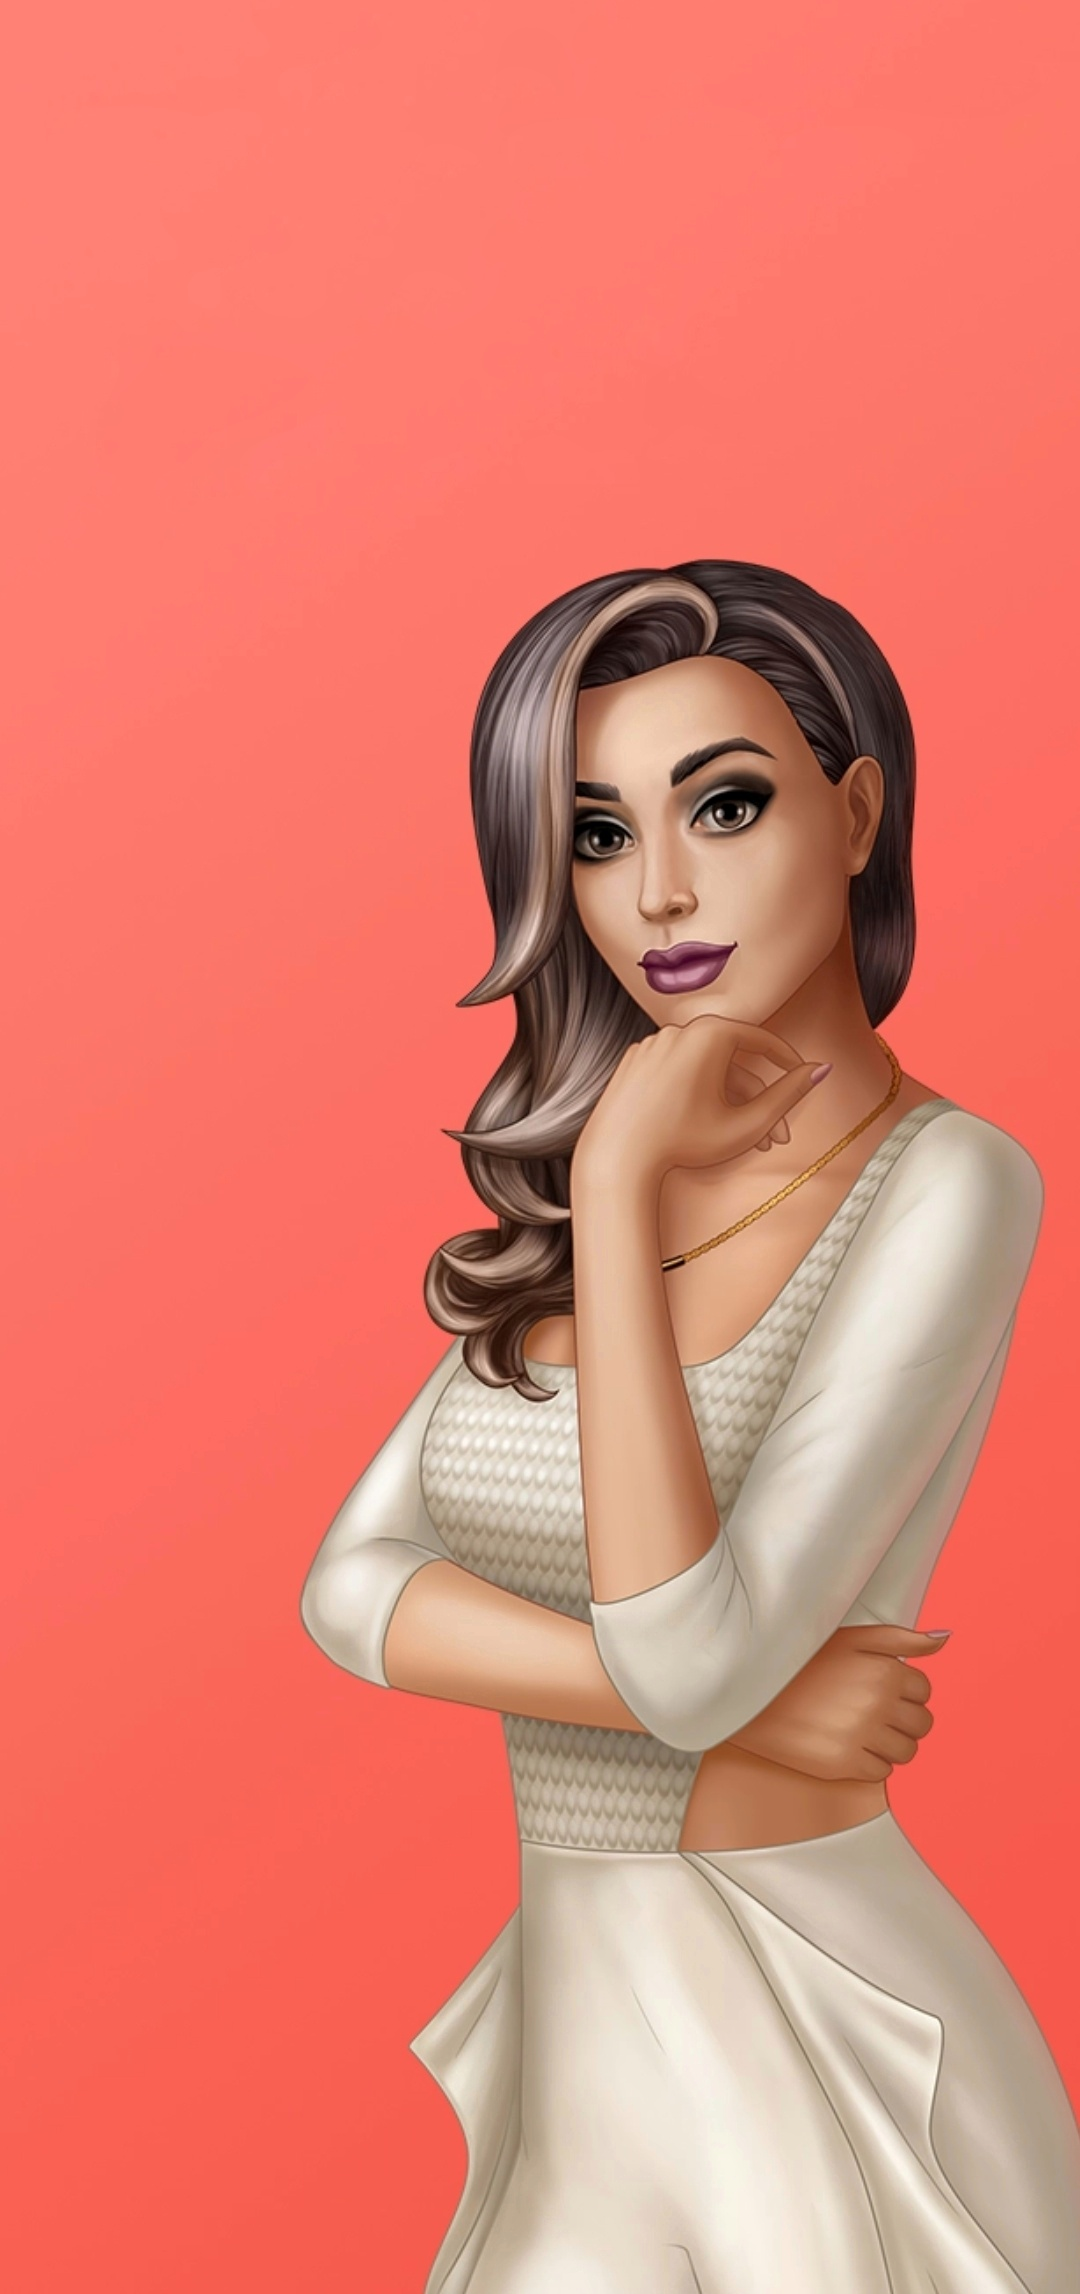
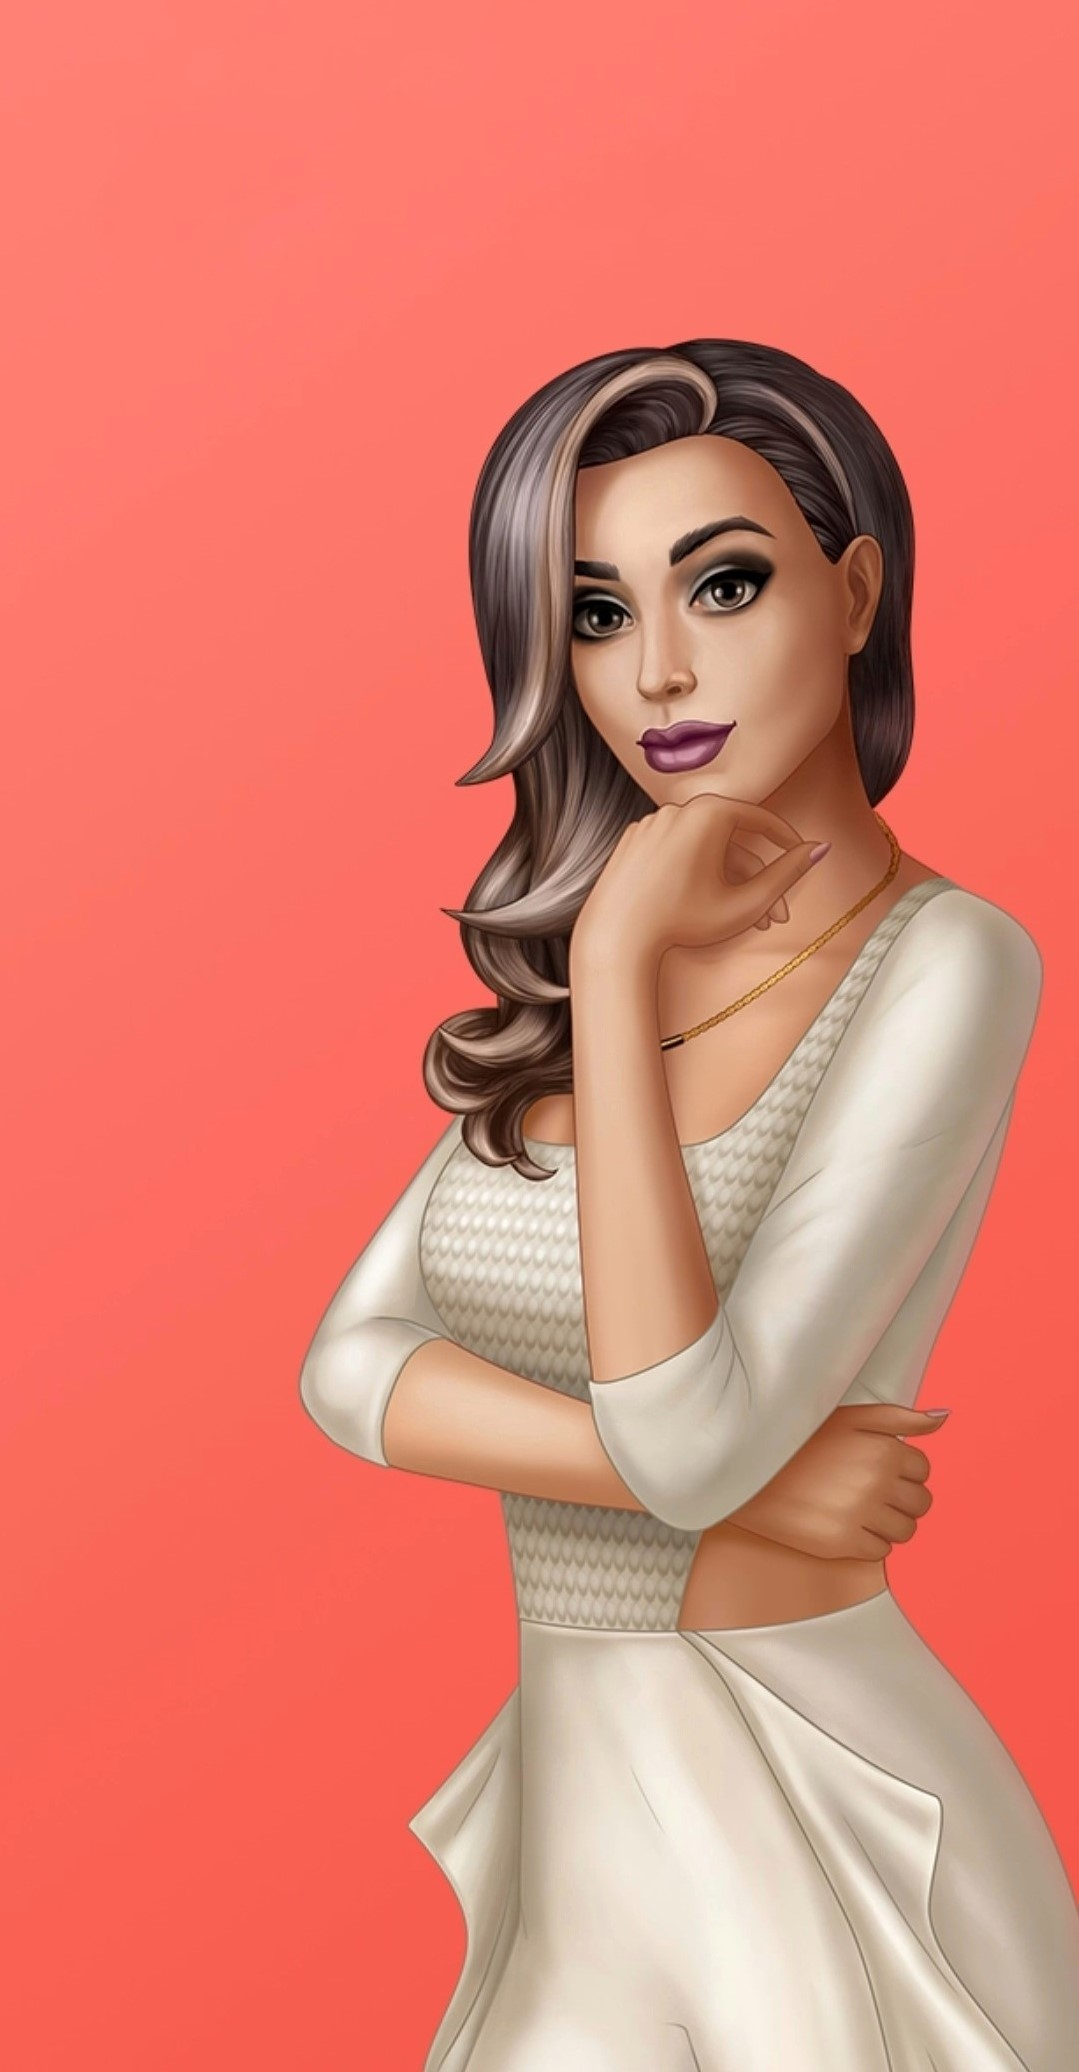
updating layout

diff --git a/index.html b/index.html
@@ -10,9 +10,9 @@
     <title>PocketStyler</title>
   </head>
   <body
-    class="w-screen h-screen"
+    class="w-screen h-screen overflow-hidden "
   >
-    <div class="bg-pic pt-5 box-border bg-no-repeat bg-cover bg-center bg-fixed h-full w-full sm:bg-salmon sm:bg-none">
+    <div class="bg-pic pt-5 box-border bg-no-repeat bg-cover bg-center bg-fixed h-full w-full overflow-hidden overscroll-none sm:bg-salmon sm:bg-none">
       <h2 class="text-white text-5xl font-normal ml-7 -bottom-0 tracking-tight font-sans">POCKET</h2>
       <h1 class="text-white text-6xl font-bold ml-7 font-sans">STYLER</h1>
       <img src="./style.jpeg" alt="syleher-image" class="hidden sm:block sm:absolute sm:inset-y-0 sm:right-0 sm:h-full sm:w-1/2 sm:object-cover" >
@@ -20,52 +20,52 @@
         class="tip absolute bottom-0 left-0 right-0 bg-white mb-12 shadow-lg bg-opacity-30 -skew-y-3 pb-2 sm:grid sm:place-items-center place-content-center font-Rajdhani"
         id="tap"
       >
-          <div class="tip-count bg-magenta mb-2 text-white w-max px-3 py-1 opacity-100 text-xl font-medium -translate-y-7 ml-4 -skew-x-6 sm:place-content-start">
-            <h3 class="tipcount">STYLE TIP #1</h3>
-            <h3 class="tipcount hidden">STYLE TIP #2</h3>
-            <h3 class="tipcount hidden">STYLE TIP #3</h3>
-            <h3 class="tipcount hidden">STYLE TIP #4</h3>
-            <h3 class="tipcount hidden">STYLE TIP #5</h3>
-            <h3 class="tipcount hidden">STYLE TIP #6</h3>
-            <h3 class="tipcount hidden">STYLE TIP #7</h3>
-            <h3 class="tipcount hidden">STYLE TIP #8</h3>
-            <h3 class="tipcount hidden">STYLE TIP #9</h3>
-            <h3 class="tipcount hidden">STYLE TIP #10</h3>
+          <div class="tip-count bg-magenta mb-2 text-white w-max px-3 py-1 opacity-100 text-xl font-medium -translate-y-6 ml-4 -skew-x-6 sm:place-content-start">
+            <h3 class="tipcount skew-x-6">STYLE TIP #1</h3>
+            <h3 class="tipcount skew-x-6 hidden">STYLE TIP #2</h3>
+            <h3 class="tipcount skew-x-6 hidden">STYLE TIP #3</h3>
+            <h3 class="tipcount skew-x-6 hidden">STYLE TIP #4</h3>
+            <h3 class="tipcount skew-x-6 hidden">STYLE TIP #5</h3>
+            <h3 class="tipcount skew-x-6 hidden">STYLE TIP #6</h3>
+            <h3 class="tipcount skew-x-6 hidden">STYLE TIP #7</h3>
+            <h3 class="tipcount skew-x-6 hidden">STYLE TIP #8</h3>
+            <h3 class="tipcount skew-x-6 hidden">STYLE TIP #9</h3>
+            <h3 class="tipcount skew-x-6 hidden">STYLE TIP #10</h3>
           </div>
 
-          <div class="style-tip bg-white bg-opacity-40 shadow-md -mt-10 text-center w-full text-black font-extrabold text-2xl px-4 pt-3">
-            <p class="div-toggle">
+          <div class="style-tip bg-white bg-opacity-40 shadow-md -mt-8 text-center w-full text-black font-extrabold text-2xl px-4 pt-4 h-28 grid place-content-center place-items-center">
+            <p class="div-toggle skew-y-3">
               Being fashionable means being brave enough to wear your dreams
             </p>
-            <p class="hidden div-toggle">
+            <p class="hidden div-toggle skew-y-3">
               Style is not something you are born with, it's something you
               cultivate
             </p>
-            <p class="hidden div-toggle">
+            <p class="hidden div-toggle skew-y-3">
               To be fashionable is now
             </p>
-            <p class="hidden div-toggle">
+            <p class="hidden div-toggle skew-y-3">
               There is no better sound in the morning than the sound of high
               heels.
             </p>
-            <p class="hidden div-toggle">
+            <p class="hidden div-toggle skew-y-3">
               Don't look for inspiration, just cultivate it
             </p>
-            <p class="hidden div-toggle">
+            <p class="hidden div-toggle skew-y-3">
               Learning to be stylish is like learning to walk, except the ground
               is colors and fabrics
             </p>
-            <p class="hidden div-toggle">
+            <p class="hidden div-toggle skew-y-3">
               Find your style and never let it go, unless there is a sale
             </p>
-            <p class="hidden div-toggle">
+            <p class="hidden div-toggle skew-y-3">
               Don't waste other people's glances, wear red
             </p>
-            <p class="hidden div-toggle">
+            <p class="hidden div-toggle skew-y-3">
               A first impression can last a moment or an hour, so dress
               accordingly
             </p>
-            <p class="hidden div-toggle">
+            <p class="hidden div-toggle skew-y-3">
               The power of fashion is to transform a regular day into a special
               evening
             </p>

diff --git a/dist/output.css b/dist/output.css
@@ -568,12 +568,24 @@ video {
   margin-top: 0.75rem;
 }
 
+.-mt-8{
+  margin-top: -2rem;
+}
+
 .box-border{
   box-sizing: border-box;
 }
 
 .block{
   display: block;
+}
+
+.flex{
+  display: flex;
+}
+
+.grid{
+  display: grid;
 }
 
 .hidden{
@@ -586,6 +598,18 @@ video {
 
 .h-screen{
   height: 100vh;
+}
+
+.h-12{
+  height: 3rem;
+}
+
+.h-32{
+  height: 8rem;
+}
+
+.h-28{
+  height: 7rem;
 }
 
 .w-full{
@@ -606,6 +630,11 @@ video {
   transform: translate(var(--tw-translate-x), var(--tw-translate-y)) rotate(var(--tw-rotate)) skewX(var(--tw-skew-x)) skewY(var(--tw-skew-y)) scaleX(var(--tw-scale-x)) scaleY(var(--tw-scale-y));
 }
 
+.-translate-y-6{
+  --tw-translate-y: -1.5rem;
+  transform: translate(var(--tw-translate-x), var(--tw-translate-y)) rotate(var(--tw-rotate)) skewX(var(--tw-skew-x)) skewY(var(--tw-skew-y)) scaleX(var(--tw-scale-x)) scaleY(var(--tw-scale-y));
+}
+
 .-skew-x-6{
   --tw-skew-x: -6deg;
   transform: translate(var(--tw-translate-x), var(--tw-translate-y)) rotate(var(--tw-rotate)) skewX(var(--tw-skew-x)) skewY(var(--tw-skew-y)) scaleX(var(--tw-scale-x)) scaleY(var(--tw-scale-y));
@@ -616,12 +645,52 @@ video {
   transform: translate(var(--tw-translate-x), var(--tw-translate-y)) rotate(var(--tw-rotate)) skewX(var(--tw-skew-x)) skewY(var(--tw-skew-y)) scaleX(var(--tw-scale-x)) scaleY(var(--tw-scale-y));
 }
 
+.skew-y-0{
+  --tw-skew-y: 0deg;
+  transform: translate(var(--tw-translate-x), var(--tw-translate-y)) rotate(var(--tw-rotate)) skewX(var(--tw-skew-x)) skewY(var(--tw-skew-y)) scaleX(var(--tw-scale-x)) scaleY(var(--tw-scale-y));
+}
+
+.skew-y-3{
+  --tw-skew-y: 3deg;
+  transform: translate(var(--tw-translate-x), var(--tw-translate-y)) rotate(var(--tw-rotate)) skewX(var(--tw-skew-x)) skewY(var(--tw-skew-y)) scaleX(var(--tw-scale-x)) scaleY(var(--tw-scale-y));
+}
+
+.skew-x-3{
+  --tw-skew-x: 3deg;
+  transform: translate(var(--tw-translate-x), var(--tw-translate-y)) rotate(var(--tw-rotate)) skewX(var(--tw-skew-x)) skewY(var(--tw-skew-y)) scaleX(var(--tw-scale-x)) scaleY(var(--tw-scale-y));
+}
+
+.skew-x-6{
+  --tw-skew-x: 6deg;
+  transform: translate(var(--tw-translate-x), var(--tw-translate-y)) rotate(var(--tw-rotate)) skewX(var(--tw-skew-x)) skewY(var(--tw-skew-y)) scaleX(var(--tw-scale-x)) scaleY(var(--tw-scale-y));
+}
+
 .transform{
   transform: translate(var(--tw-translate-x), var(--tw-translate-y)) rotate(var(--tw-rotate)) skewX(var(--tw-skew-x)) skewY(var(--tw-skew-y)) scaleX(var(--tw-scale-x)) scaleY(var(--tw-scale-y));
 }
 
 .place-content-center{
   place-content: center;
+}
+
+.place-items-center{
+  place-items: center;
+}
+
+.items-center{
+  align-items: center;
+}
+
+.justify-center{
+  justify-content: center;
+}
+
+.overflow-hidden{
+  overflow: hidden;
+}
+
+.overscroll-none{
+  overscroll-behavior: none;
 }
 
 .bg-magenta{
@@ -643,7 +712,7 @@ video {
 }
 
 .bg-pic{
-  background-image: url('../style.jpeg');
+  background-image: url('../styler.jpeg');
 }
 
 .bg-cover{
@@ -689,6 +758,10 @@ video {
   padding-top: 1.25rem;
 }
 
+.pt-4{
+  padding-top: 1rem;
+}
+
 .text-center{
   text-align: center;
 }
@@ -716,19 +789,14 @@ video {
   line-height: 1;
 }
 
-.text-sm{
-  font-size: 0.875rem;
-  line-height: 1.25rem;
+.text-base{
+  font-size: 1rem;
+  line-height: 1.5rem;
 }
 
 .text-xl{
   font-size: 1.25rem;
   line-height: 1.75rem;
-}
-
-.text-base{
-  font-size: 1rem;
-  line-height: 1.5rem;
 }
 
 .font-bold{

diff --git a/tailwind.config.js b/tailwind.config.js
@@ -12,7 +12,7 @@ module.exports = {
         Rajdhani: ["Rajdhani", "sans-serif"],
       },
       backgroundImage: {
-        pic: "url('../style.jpeg')",
+        pic: "url('../styler.jpeg')",
       },
     },
   },
